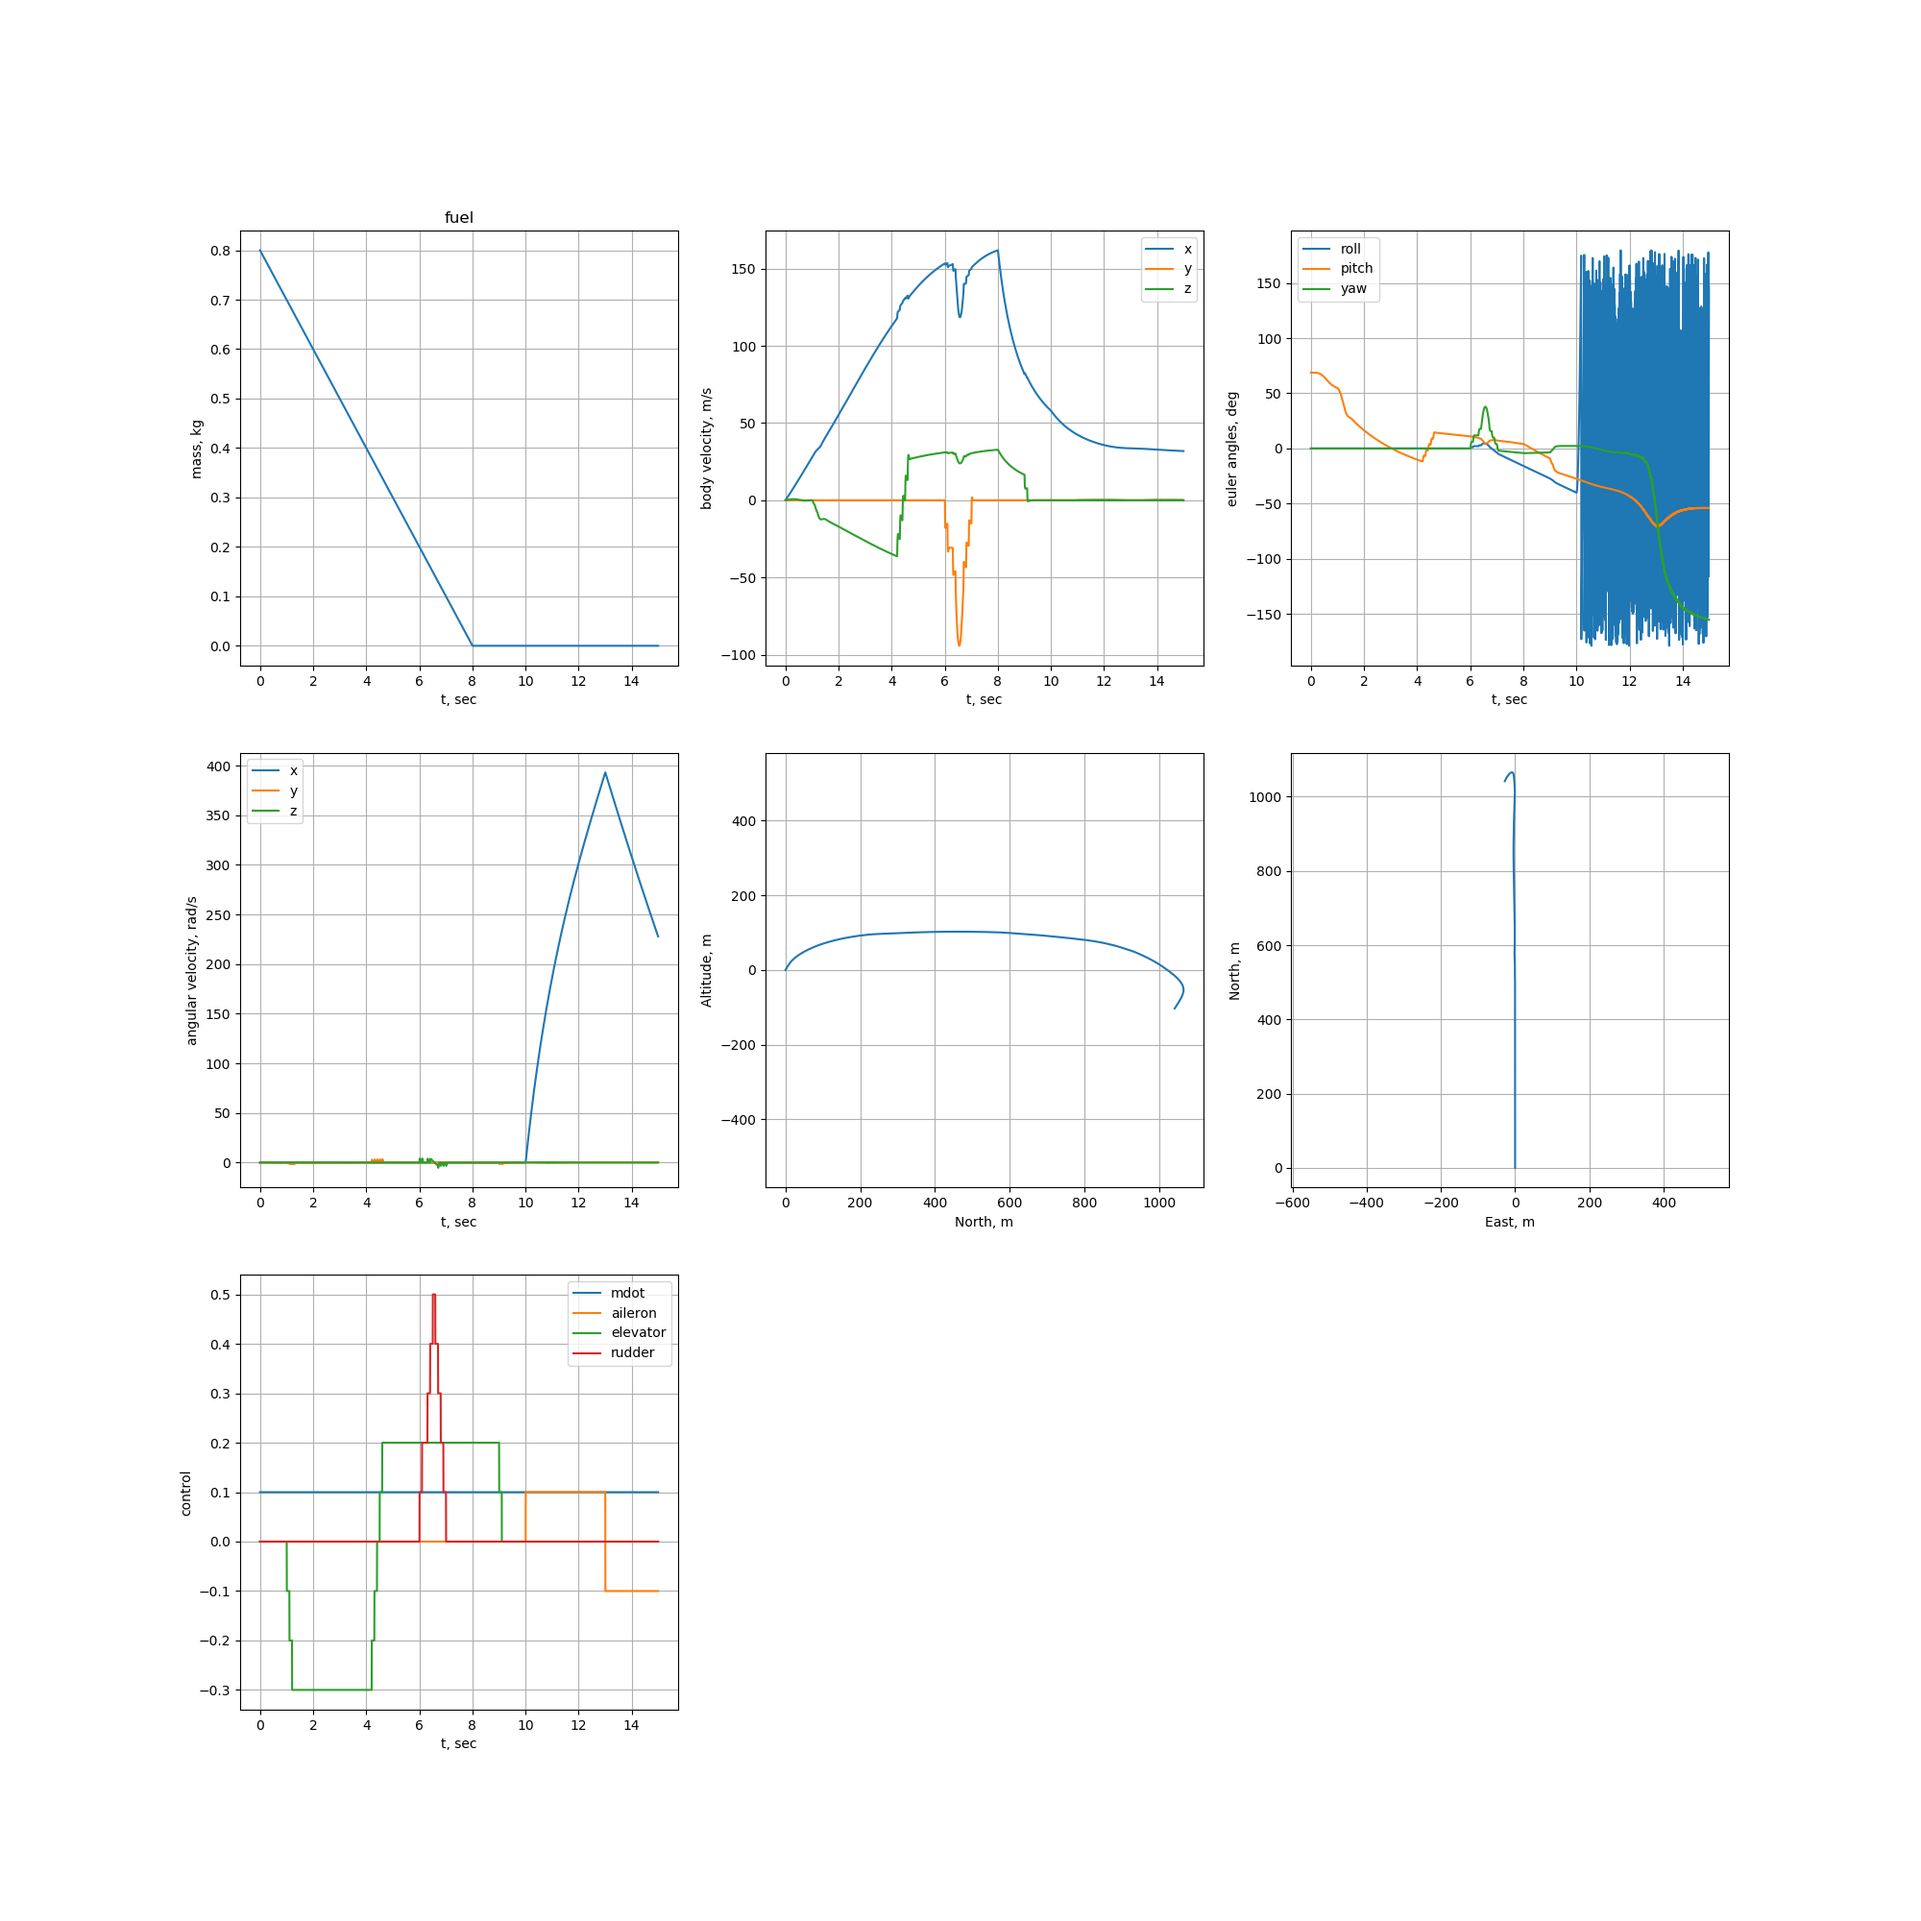
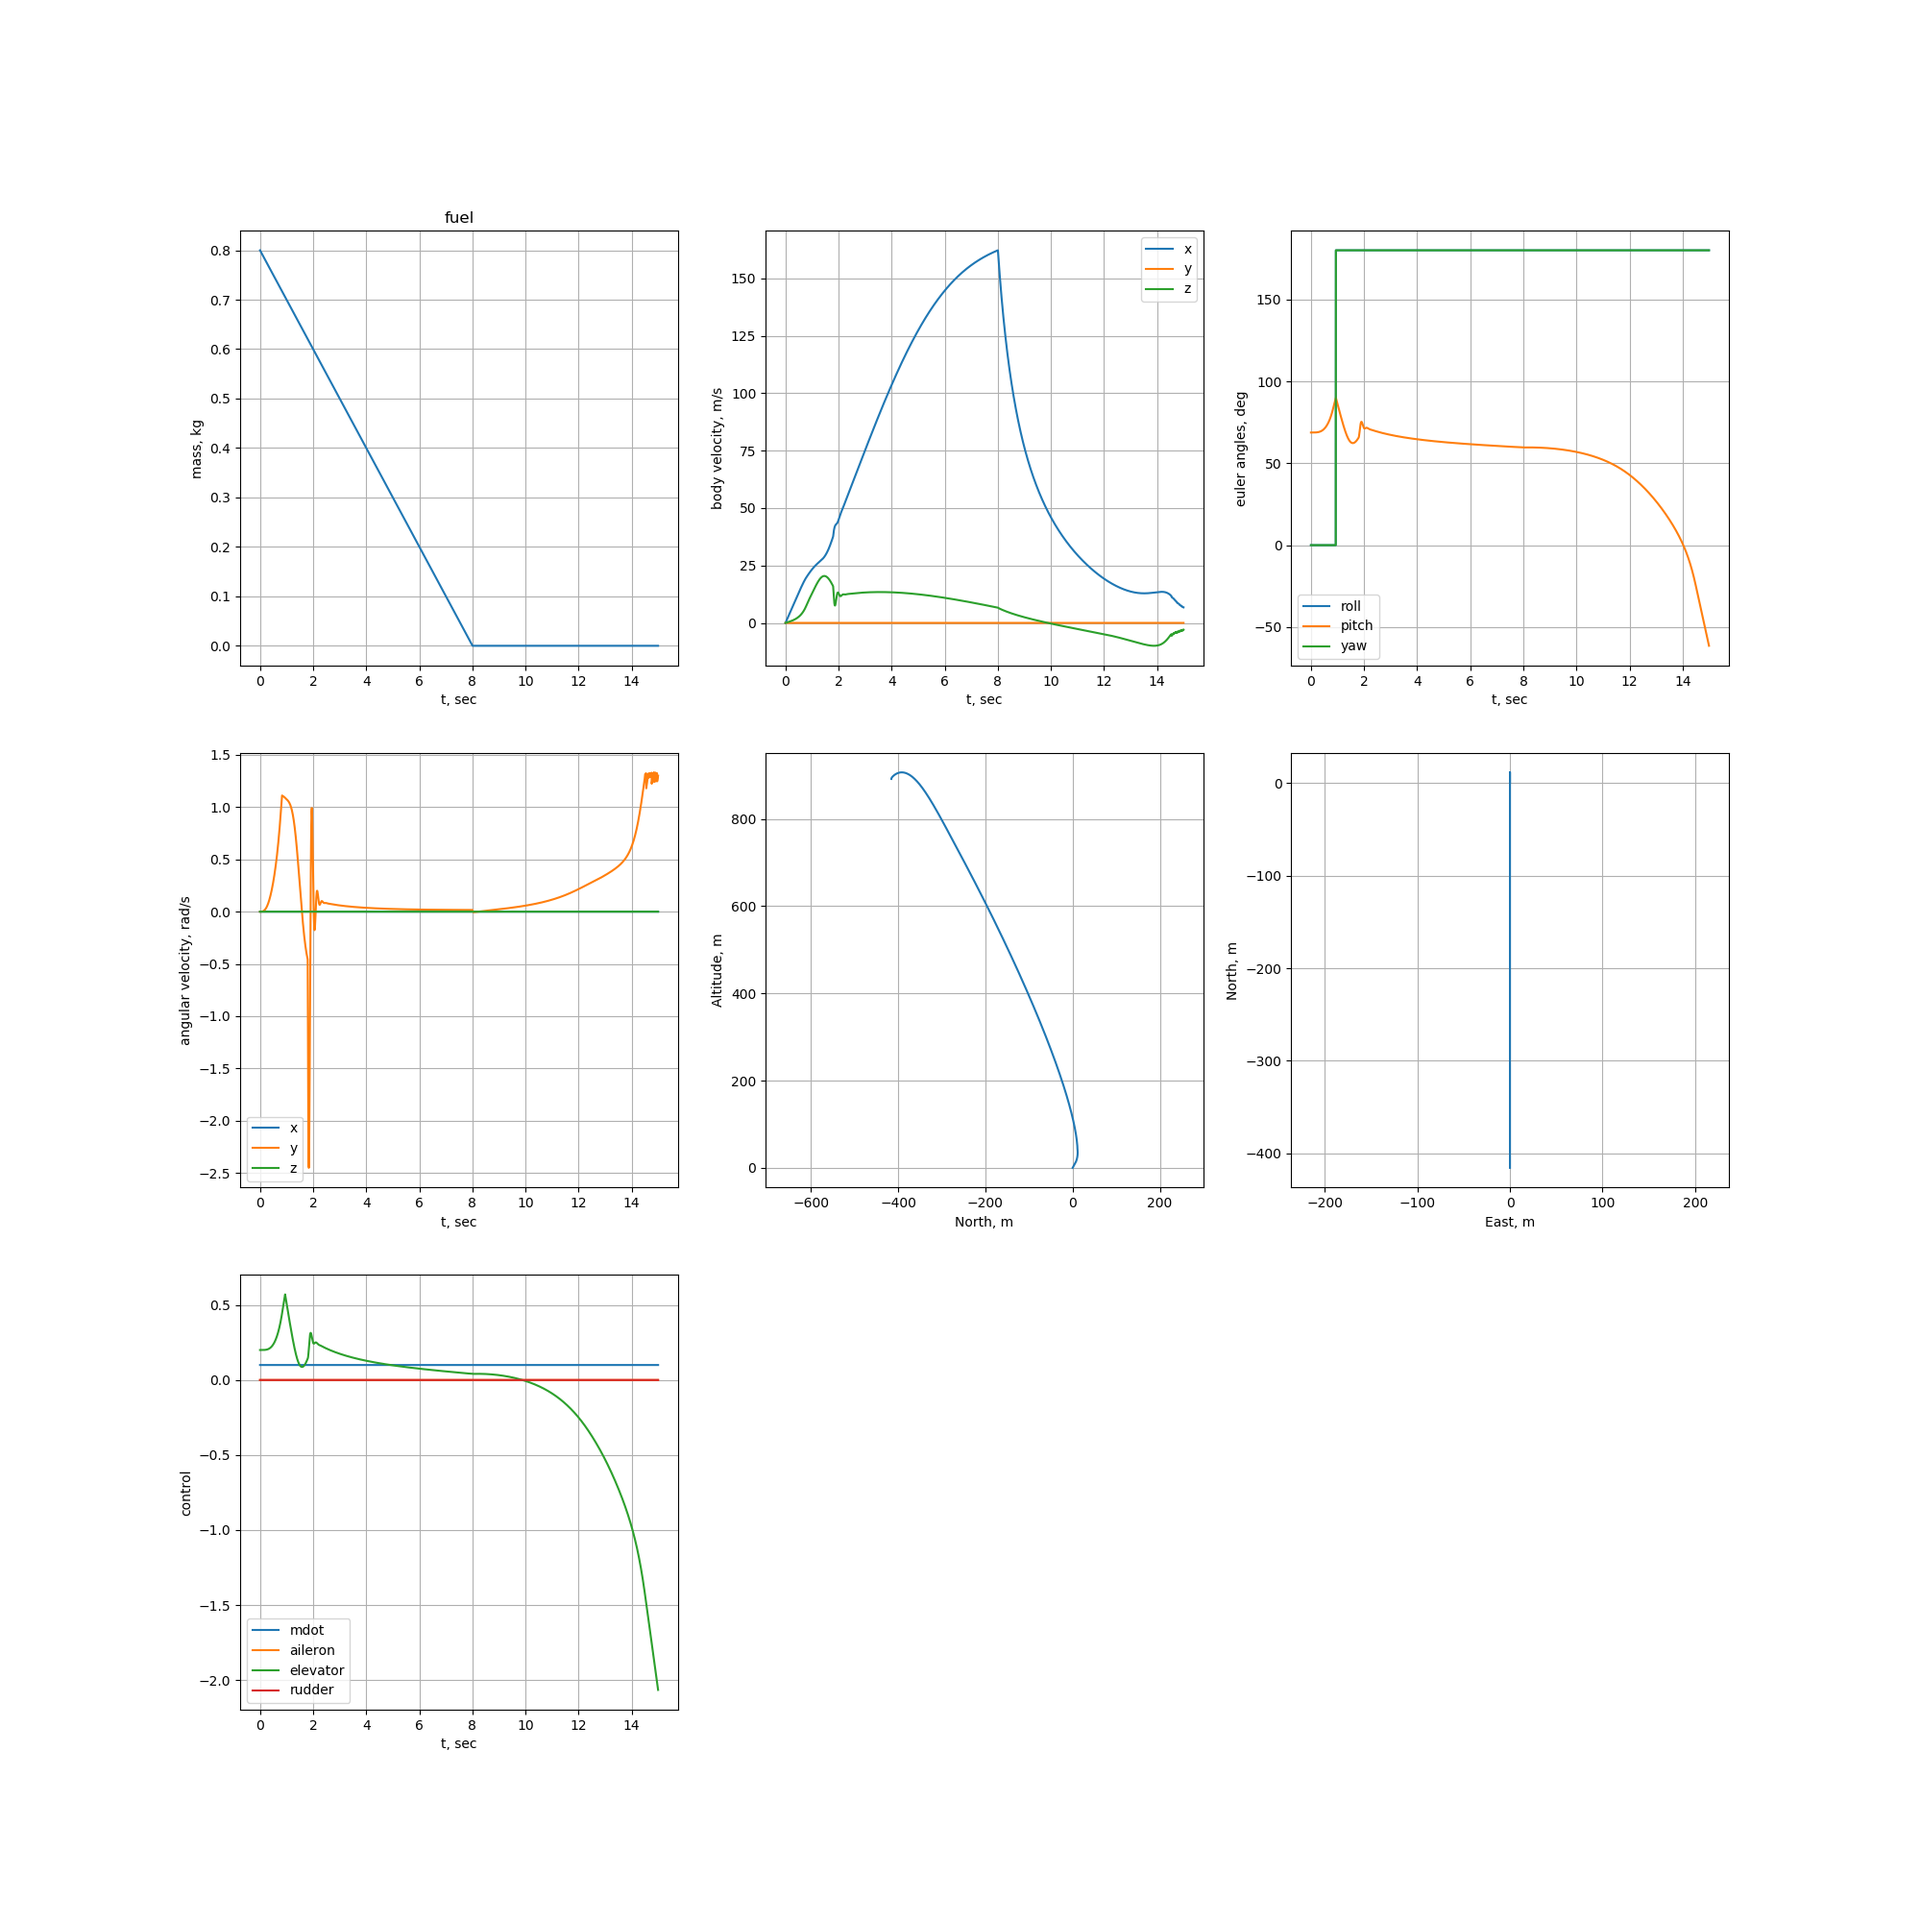
Add feedback to rocket.

diff --git a/ros/src/f16/src/RocketPlugin/rocket_casadi.py b/ros/src/f16/src/RocketPlugin/rocket_casadi.py
@@ -25,6 +25,7 @@ def rocket_equations(jit=True):
     dt = ca.SX.sym('dt')
 
     # State: x
+    # body frame: Forward, Right, Down
     omega_b = x[0:3]  # inertial angular velocity expressed in body frame
     r_nb = x[3:7]  # modified rodrigues parameters
     v_b = x[7:10]  # inertial velocity expressed in body components
@@ -152,22 +153,19 @@ def rocket_equations(jit=True):
             val = ca.if_else(t > ti, yi, val)
         return val
 
+    # reference trajectory
+    pitch_d = 1.0
+
+    euler = so3.Euler.from_mrp(r_nb) # roll, pitch, yaw
+    pitch = euler[1]
+
     # control
     u_control = ca.SX.zeros(4)
     # these controls are just test controls to make sure the fins are working
     u_control[0] = 0.1  # mass flow rate
-    u_control[1] = schedule(t, 0, [ # aileron
-        (10, 0.1), (13, -0.1), (16, 0) # roll maneuver
-        ])
-    u_control[2] = schedule(t, 0, [ # elevator
-        (1, -0.1), (1.1, -0.2), (1.2, -0.3),  # initial fin deflection to go horizontal
-        (4.2, -0.2), (4.3, -0.1), (4.4, 0.0), (4.5, 0.1), (4.6, 0.2), # transition to horizontal flight
-        (9.0, 0.1), (9.1, 0.0)  # prepare for roll
-        ])
-    u_control[3] = schedule(t, 0, [ # rudder
-        (6, 0.1), (6.1, 0.2), (6.3, 0.3), (6.4, 0.4), (6.5, 0.5), # turn
-        (6.6, 0.4), (6.7, 0.3), (6.8, 0.2), (6.9, 0.1), (7.0, 0.0)
-        ])
+    u_control[1] = 0
+    u_control[2] = (pitch - 1)
+    u_control[3] = 0
     control = ca.Function('control', [x, p, t, dt], [u_control],
         ['x', 'p', 't', 'dt'], ['u'])
 
@@ -417,7 +415,7 @@ def objective(s, vt, gamma, m_fuel, rhs, p):
 
 def trim(vt, gamma, m_fuel, rhs, p, s0=None):
     if s0 is None:
-        s0 = [100, 0, 0, 0, 0, 0]
+        s0 = [0.1, 0, 0, 0, 0, 0]
     s = ca.SX.sym('s', 6)
     nlp = {'x': s,
            'f': objective(s, vt=vt, gamma=gamma, m_fuel=m_fuel, rhs=rhs, p=p),
@@ -457,11 +455,11 @@ def trim(vt, gamma, m_fuel, rhs, p, s0=None):
     }
 
 
-def do_trim():
+def do_trim(vt, gamma_deg, m_fuel):
     rocket = rocket_equations()
     x0, p0 = rocket['initialize'](90)
-    gamma_deg = 15
-    res = trim(vt=100, gamma=np.deg2rad(gamma_deg), m_fuel=0.8, rhs=rocket['rhs'], p=p0)
+    res = trim(vt=vt, gamma=np.deg2rad(gamma_deg),
+            m_fuel=m_fuel, rhs=rocket['rhs'], p=p0)
     s= res['s']
     x = res['x0']
     m_dot = s[0]
@@ -477,6 +475,11 @@ def do_trim():
     print(fmt_str.format(
         res['status'], res['f'], str(res['g']),
         m_dot, alpha_deg, beta_deg, ail_deg, elv_deg, rdr_deg, theta_deg))
+
+    # s: m_dot, alpha, beta, ail, elev, rdr
+    # u:  m_dot, aileron, elevator, rudder
+    u0 = [s[0], s[3], s[4], s[5]]
+    return x, u0, p0
     
 
 def run():
@@ -488,9 +491,47 @@ def run():
     plt.savefig('rocket.png')
     plt.show()
 
+def linearize():
+    eqs = rocket_equations()
+    x = eqs['x']
+    u = eqs['u']
+    p = eqs['p']
+    y = x  # state feedback
+    rhs = eqs['rhs']
+    xdot = rhs(x, u, p)
+    A = ca.jacobian(xdot, x)
+    B = ca.jacobian(xdot, u)
+    C = ca.jacobian(y, x)
+    D = ca.jacobian(y, u)
+    return ca.Function('ss', [x, u, p], [A, B, C, D],
+            ['x', 'u', 'p'], ['A', 'B', 'C', 'D'])
+
 
 if __name__ == "__main__":
-    # run()
-    # code_generation()
-    do_trim()
+    run()
+    code_generation()
+
+    x0, u0, p0 = do_trim(vt=100, gamma_deg=90, m_fuel=0.8)
+    lin = linearize()
+    import control
+    sys1 = control.ss(*lin(x0, u0, p0))
+
+    # get pitch rate from elevator
+    G = control.ss2tf(sys1[1, 2])
+    control.rlocus(G)
+    plt.show()
+
+    # next steps
+    # pitch rate pid design, use this to control pitch angle
+    # use flight path angle to control altitude
+
+    #print(x0, u0, p0)
+    #print(sys1)
+    # sys2 = do_trim(vt=50, gamma_deg=90, m_fuel=0.0)
+    
+    # pid design to get gains, manually for now using root locus
+
+    # schedule gains
+    # gains = gain_schedule(gains1, gains2, t)
+
 

diff --git a/ros/src/f16/src/RocketPlugin/casadi_gen.c b/ros/src/f16/src/RocketPlugin/casadi_gen.c
@@ -726,141 +726,56 @@ CASADI_SYMBOL_EXPORT casadi_functions* rocket_force_moment_functions(void) {
 }
 /* rocket_control:(x[14],p[16],t,dt)->(u[4]) */
 static int casadi_f2(const casadi_real** arg, casadi_real** res, casadi_int* iw, casadi_real* w, void* mem) {
-  casadi_real a0, a1, a10, a11, a12, a13, a14, a15, a16, a17, a18, a19, a2, a20, a3, a4, a5, a6, a7, a8, a9;
+  casadi_real a0, a1, a10, a2, a3, a4, a5, a6, a7, a8, a9;
   a0=1.0000000000000001e-01;
   if (res[0]!=0) res[0][0]=a0;
-  a1=16.;
-  a2=arg[2] ? arg[2][0] : 0;
-  a1=(a1<a2);
-  a1=(!a1);
-  a3=13.;
-  a3=(a3<a2);
-  a4=-1.0000000000000001e-01;
-  a5=(a3?a4:0);
-  a3=(!a3);
-  a6=10.;
-  a6=(a6<a2);
-  a6=(a6?a0:0);
-  a3=(a3?a6:0);
-  a5=(a5+a3);
-  a1=(a1?a5:0);
-  if (res[0]!=0) res[0][1]=a1;
-  a1=9.0999999999999996e+00;
-  a1=(a1<a2);
-  a1=(!a1);
-  a5=9.;
-  a5=(a5<a2);
-  a3=(a5?a0:0);
-  a5=(!a5);
-  a6=4.5999999999999996e+00;
-  a6=(a6<a2);
-  a7=2.0000000000000001e-01;
-  a8=(a6?a7:0);
-  a6=(!a6);
-  a9=4.5000000000000000e+00;
-  a9=(a9<a2);
-  a10=(a9?a0:0);
-  a9=(!a9);
-  a11=4.4000000000000004e+00;
-  a11=(a11<a2);
-  a11=(!a11);
-  a12=4.2999999999999998e+00;
-  a12=(a12<a2);
-  a13=(a12?a4:0);
-  a12=(!a12);
-  a14=4.2000000000000002e+00;
-  a14=(a14<a2);
-  a15=-2.0000000000000001e-01;
-  a16=(a14?a15:0);
-  a14=(!a14);
-  a17=1.2000000000000000e+00;
-  a17=(a17<a2);
-  a18=-2.9999999999999999e-01;
-  a18=(a17?a18:0);
-  a17=(!a17);
-  a19=1.1000000000000001e+00;
-  a19=(a19<a2);
-  a15=(a19?a15:0);
-  a19=(!a19);
-  a20=1.;
-  a20=(a20<a2);
-  a20=(a20?a4:0);
-  a19=(a19?a20:0);
-  a15=(a15+a19);
-  a17=(a17?a15:0);
-  a18=(a18+a17);
-  a14=(a14?a18:0);
-  a16=(a16+a14);
-  a12=(a12?a16:0);
-  a13=(a13+a12);
-  a11=(a11?a13:0);
-  a9=(a9?a11:0);
-  a10=(a10+a9);
-  a6=(a6?a10:0);
+  a0=0.;
+  if (res[0]!=0) res[0][1]=a0;
+  a1=2.;
+  a2=arg[0] ? arg[0][6] : 0;
+  a3=1.;
+  a4=arg[0] ? arg[0][3] : 0;
+  a5=casadi_sq(a4);
+  a6=arg[0] ? arg[0][4] : 0;
+  a7=casadi_sq(a6);
+  a5=(a5+a7);
+  a7=arg[0] ? arg[0][5] : 0;
+  a8=casadi_sq(a7);
+  a5=(a5+a8);
+  a8=(a3-a5);
+  a5=(a3+a5);
+  a8=(a8/a5);
+  a9=(-a8);
+  a9=(a2?a9:0);
+  a10=(!a2);
+  a8=(a10?a8:0);
+  a9=(a9+a8);
+  a6=(a1*a6);
+  a6=(a6/a5);
+  a8=(-a6);
+  a8=(a2?a8:0);
+  a6=(a10?a6:0);
   a8=(a8+a6);
-  a5=(a5?a8:0);
-  a3=(a3+a5);
-  a1=(a1?a3:0);
+  a9=(a9*a8);
+  a7=(a1*a7);
+  a7=(a7/a5);
+  a8=(-a7);
+  a8=(a2?a8:0);
+  a7=(a10?a7:0);
+  a8=(a8+a7);
+  a4=(a1*a4);
+  a4=(a4/a5);
+  a5=(-a4);
+  a2=(a2?a5:0);
+  a10=(a10?a4:0);
+  a2=(a2+a10);
+  a8=(a8*a2);
+  a9=(a9-a8);
+  a1=(a1*a9);
+  a1=asin(a1);
+  a1=(a1-a3);
   if (res[0]!=0) res[0][2]=a1;
-  a1=7.;
-  a1=(a1<a2);
-  a1=(!a1);
-  a3=6.9000000000000004e+00;
-  a3=(a3<a2);
-  a5=(a3?a0:0);
-  a3=(!a3);
-  a8=6.7999999999999998e+00;
-  a8=(a8<a2);
-  a6=(a8?a7:0);
-  a8=(!a8);
-  a10=6.7000000000000002e+00;
-  a10=(a10<a2);
-  a9=2.9999999999999999e-01;
-  a11=(a10?a9:0);
-  a10=(!a10);
-  a13=6.5999999999999996e+00;
-  a13=(a13<a2);
-  a12=4.0000000000000002e-01;
-  a16=(a13?a12:0);
-  a13=(!a13);
-  a14=6.5000000000000000e+00;
-  a14=(a14<a2);
-  a18=5.0000000000000000e-01;
-  a18=(a14?a18:0);
-  a14=(!a14);
-  a17=6.4000000000000004e+00;
-  a17=(a17<a2);
-  a12=(a17?a12:0);
-  a17=(!a17);
-  a15=6.2999999999999998e+00;
-  a15=(a15<a2);
-  a9=(a15?a9:0);
-  a15=(!a15);
-  a19=6.0999999999999996e+00;
-  a19=(a19<a2);
-  a7=(a19?a7:0);
-  a19=(!a19);
-  a20=6.;
-  a20=(a20<a2);
-  a20=(a20?a0:0);
-  a19=(a19?a20:0);
-  a7=(a7+a19);
-  a15=(a15?a7:0);
-  a9=(a9+a15);
-  a17=(a17?a9:0);
-  a12=(a12+a17);
-  a14=(a14?a12:0);
-  a18=(a18+a14);
-  a13=(a13?a18:0);
-  a16=(a16+a13);
-  a10=(a10?a16:0);
-  a11=(a11+a10);
-  a8=(a8?a11:0);
-  a6=(a6+a8);
-  a3=(a3?a6:0);
-  a5=(a5+a3);
-  a1=(a1?a5:0);
-  if (res[0]!=0) res[0][3]=a1;
+  if (res[0]!=0) res[0][3]=a0;
   return 0;
 }
 
